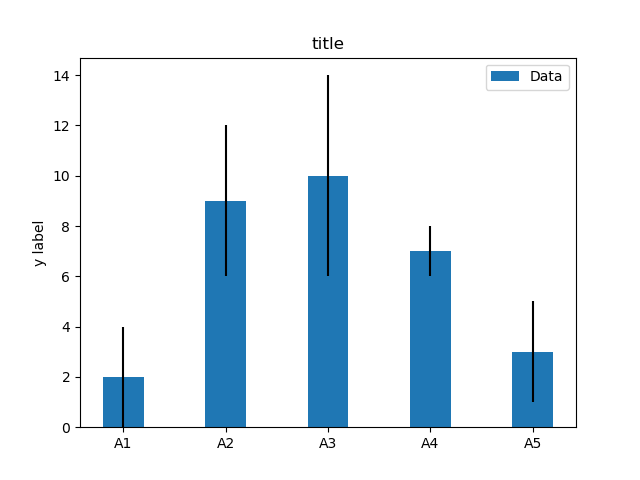
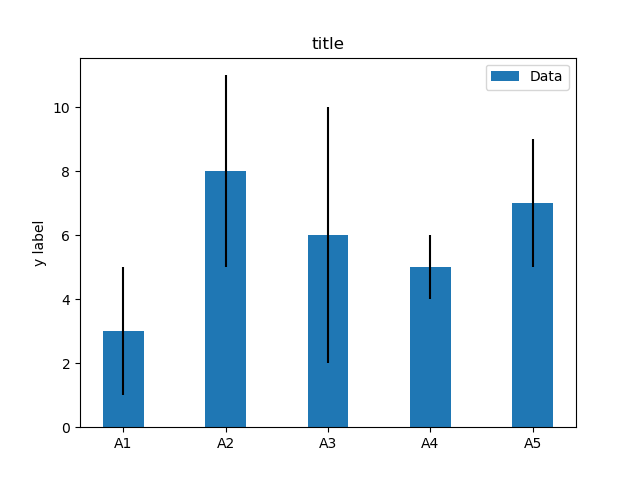
first commit

diff --git a/example.py b/example.py
@@ -2,7 +2,7 @@ import numpy as np
 import matplotlib.pyplot as plt
 
 labels = ['A1', 'A2', 'A3', 'A4', 'A5']
-m_means = [2,9,10,7,3]
+m_means = [3,8,6,5,7]
 m_std = [2, 3, 4, 1, 2]
 width = 0.40       # the width of the bars
 

diff --git a/README.md b/README.md
@@ -1,4 +1,4 @@
-# Matplotlib no 222 
+# Matplotlib no 223 
 
 python example
 
